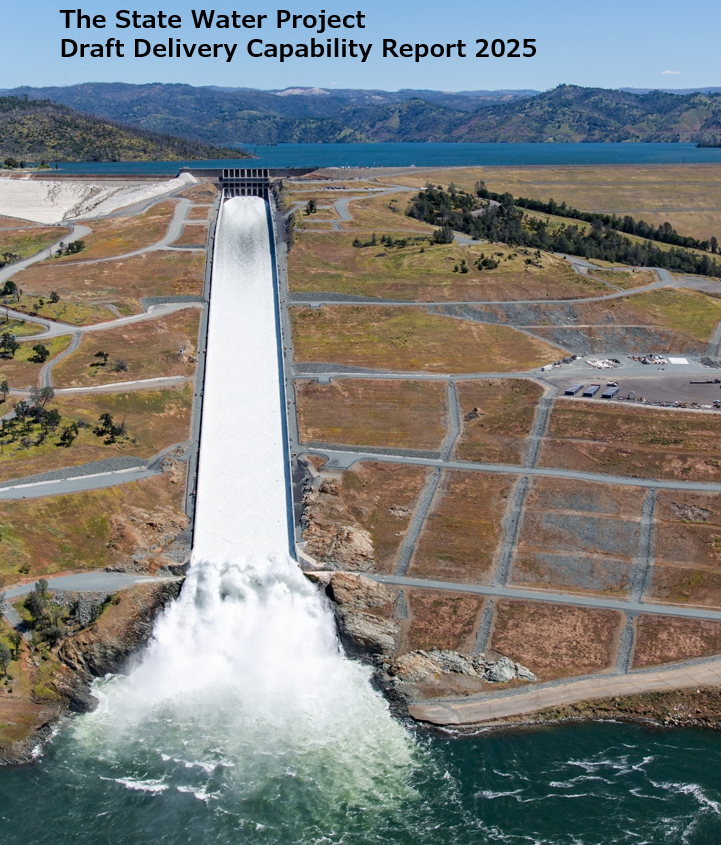
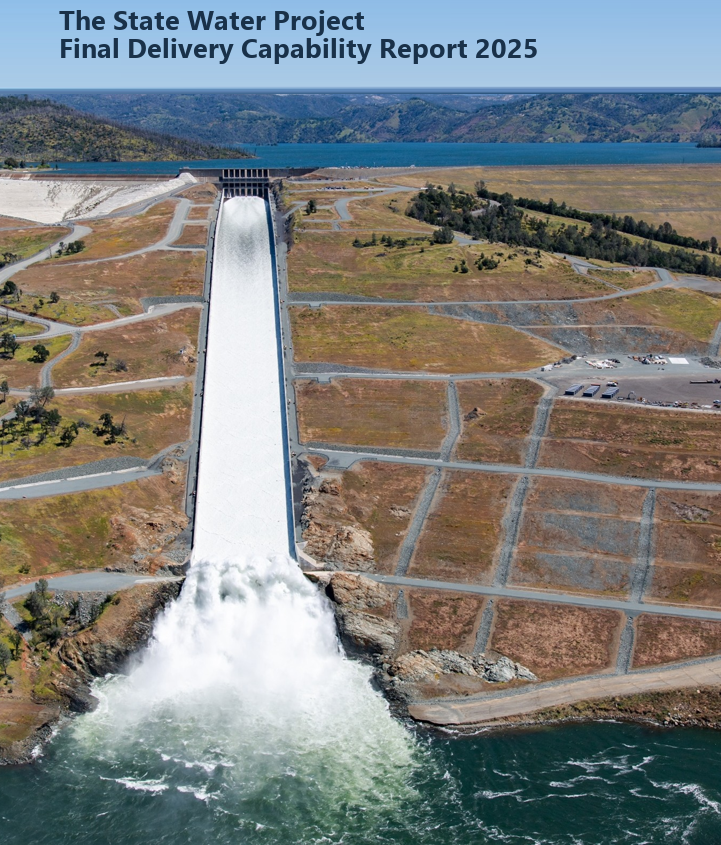
update text and cover page to represent Final DCR 25

Changed region(s): [[0.0305, 0.0, 0.9764, 0.1231]]

diff --git a/app.py b/app.py
@@ -26,7 +26,7 @@ navbar = dbc.Navbar(
         dbc.NavbarBrand(
             [
                 html.Img(src="/assets/dwr_seal.png", height="50px", className="me-2"),
-                html.Span("Draft Delivery Capability Report 2025", style={"fontSize": "2rem"})
+                html.Span("Delivery Capability Report 2025", style={"fontSize": "2rem"})
             ],
             href="/",
             style={"color": "white", "display": "flex", "alignItems": "center"}

diff --git a/pages/onepager.py b/pages/onepager.py
@@ -141,7 +141,7 @@ def handle_selection(delivery_type, scen1, scen2):
                 html.Th(""),
                 html.Th(""),
                 html.Th(f"Final DCR 2023 Conditions ({scen1})"),
-                html.Th(f"Draft DCR 2025 Conditions ({scen2})"),
+                html.Th(f"Final DCR 2025 Conditions ({scen2})"),
                 html.Th("Change")
             ])),
             html.Tbody(tab_rows)

diff --git a/data/page_text/results-discussion-table-a.md b/data/page_text/results-discussion-table-a.md
@@ -1,1 +1,1 @@
-The Draft DCR 2025 provides an increase in Table A deliveries over the long-term average and notable wet and dry periods. This is primarily because of the increased exports in April-May from the revised spring outflow requirement of the Agreements to Support Healthy Rivers and Landscapes. 
+The Final DCR 2025 provides an increase in Table A deliveries over the long-term average and notable wet and dry periods. This is primarily because of the increased exports in April-May from the revised spring outflow requirement of the Agreements to Support Healthy Rivers and Landscapes. 

diff --git a/data/page_text/results-discussion-a21.md b/data/page_text/results-discussion-a21.md
@@ -1,1 +1,1 @@
-The Draft DCR 2025 shows an increase in Article 21 deliveries over the long-term average and most wet periods.
+The Final DCR 2025 shows an increase in Article 21 deliveries over the long-term average and most wet periods.
